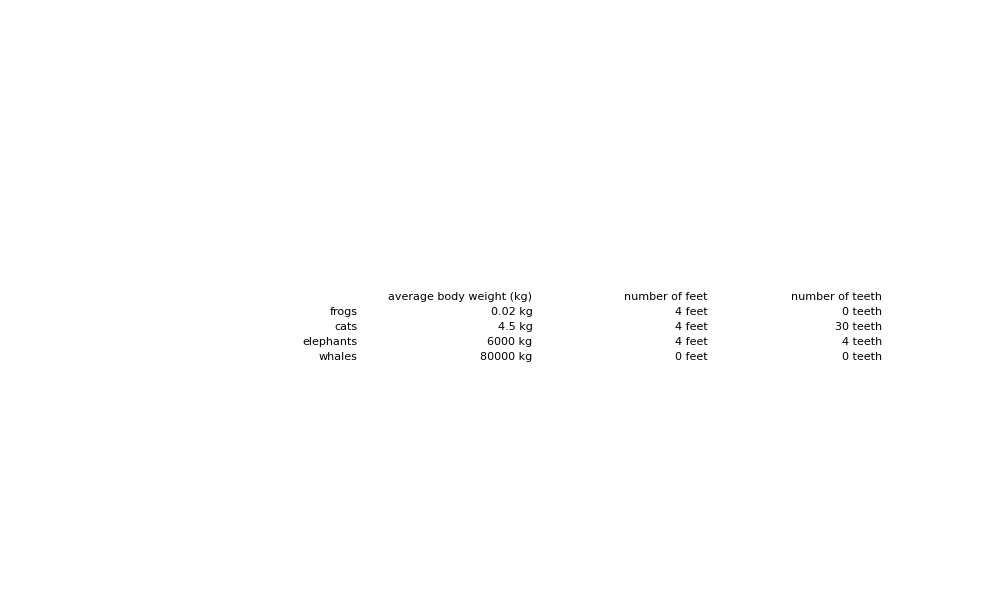
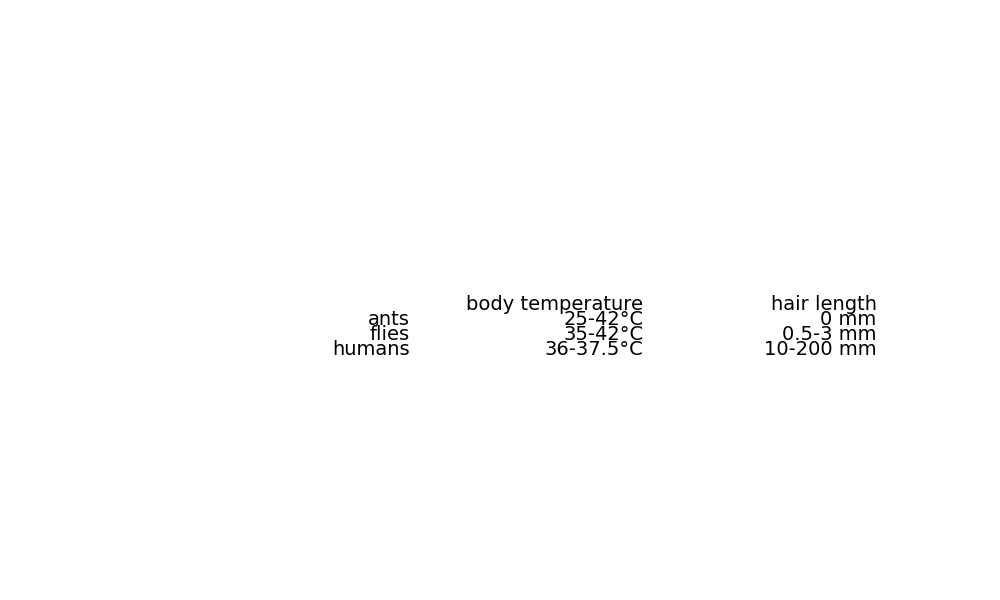
entry mapper added

Changed region(s): [[0.403, 0.48, 0.713, 0.6], [0.744, 0.48, 0.899, 0.6], [0.31, 0.51, 0.403, 0.6]]

diff --git a/chartgpt/src/main/java/com/gptool/chartgpt/service/serviceutil/JSONutil.java b/chartgpt/src/main/java/com/gptool/chartgpt/service/serviceutil/JSONutil.java
@@ -1,11 +1,16 @@
 package com.gptool.chartgpt.service.serviceutil;
 
+import java.util.ArrayList;
+import java.util.List;
+
 import org.springframework.stereotype.Component;
 
 import com.fasterxml.jackson.core.JsonProcessingException;
+import com.fasterxml.jackson.core.type.TypeReference;
 import com.fasterxml.jackson.databind.JsonMappingException;
 import com.fasterxml.jackson.databind.JsonNode;
 import com.fasterxml.jackson.databind.ObjectMapper;
+import com.gptool.chartgpt.pojo.Entry;
 import com.gptool.chartgpt.pojo.Table;
 
 @Component
@@ -45,5 +50,40 @@ public class JSONutil implements Formatter {
         return table;
     }
 
-    //  If i go for the less abstracted pojos route i can have specific parsers for table and entries
-}
+    //  For now, to access Entrys we need to create a Table first
+    public List<Entry> entryListMapper(Table table ) throws JsonProcessingException{
+        List<Entry> entryList = new ArrayList<>();
+        String tableString = objectMapper.writeValueAsString(table);
+        JsonNode tableJsonNode = (JsonNode)parse(tableString);
+        // Getting just the list of options
+        JsonNode optionListJsonNode = tableJsonNode.get("options");
+        String optionListString = (String) parseToString(optionListJsonNode);
+        List<String> optionList = objectMapper.readValue(optionListString,new TypeReference<List<String>>(){});
+
+        //  Getting just the list of topics
+        JsonNode topicListJsonNode = tableJsonNode.get("topics");
+        String topicListString = (String) parseToString(topicListJsonNode);
+        List<String> topicList = objectMapper.readValue(topicListString,new TypeReference<List<String>>(){});
+
+        //  Getting the list of information lists
+        JsonNode informationListJsonNode = tableJsonNode.get("topics");
+        String informationListString = (String) parseToString(informationListJsonNode);
+        List<List<String>> informationList = objectMapper.readValue(informationListString,new TypeReference<List<List<String>>>(){});
+
+        for (int index = 0; index < optionList.size(); index++) {
+            List<String> optionInfo = new ArrayList<>();
+            //  For indexed option get the indexed item in each list
+            for (List<String> information : informationList) {
+                optionInfo.add(information.get(index));
+            }
+            Entry entry = new Entry(optionList.get(index), topicList, optionInfo);
+            entryList.add(entry);
+        }
+        return entryList;
+    }
+
+
+    
+
+    }
+

diff --git a/completion_calls.py b/completion_calls.py
@@ -81,8 +81,42 @@ def get_table_info(option_list, characteristics_list):
         for each option on each topic. There should be quotation marks around each item in the information lists.
         Each list under the "information" key must have quotations around it.
         Keep the information to the point (brief). Include pure data as the information. Like this:
-        {
-        *topic*:[
+        {{
+            "topics": [
+                "average body weight in kilos",
+                "number of feet"
+            ],
+            "information": [
+                "[ "35-40 kg",
+                "350-450 kg",
+                "4000-6000 kg",
+                "80000-130000 kg"
+                ]",
+                "[ "2 feet",
+                "4 feet",
+                "4 feet",
+                "0 feet"
+                ]"
+            ],
+            "options": [
+                "penguins",
+                "zebras",
+                "elephants",
+                "whales"
+            ]
+        }
+
+
+        """},
+        {"role": "user", "content": " in terms of " + characteristics_list + " compare " + option_list},
+        ],
+        max_tokens = 200,
+        temperature = 0.3)
+    print("\n\n\n"+response.choices[0].message.content+"\n\n\n")
+    return response.choices[0].message.content
+
+
+'''        *topic*:[
             *topic 1*,
             *topic 2*,
             *topic 3*
@@ -104,11 +138,4 @@ def get_table_info(option_list, characteristics_list):
             *option 3*
         ]
         }
-    }
-        """},
-        {"role": "user", "content": " in terms of " + characteristics_list + " compare " + option_list},
-        ],
-        max_tokens = 200,
-        temperature = 0.5)
-    print("\n\n\n"+response.choices[0].message.content+"\n\n\n")
-    return response.choices[0].message.content
+    }'''

diff --git a/chartgpt/src/main/java/com/gptool/chartgpt/web/webutil/BasicUtility.java b/chartgpt/src/main/java/com/gptool/chartgpt/web/webutil/BasicUtility.java
@@ -37,6 +37,7 @@ public class BasicUtility implements ControllerUtility{
                 JsonNode response = restTemplate.postForObject(url, null,JsonNode.class, characteristics, options);
                 String responseString = tableService.parse(response);
                 Table table = tableService.jsonToTable(responseString);
+                tableService.saveTable(table);
                 return new ResponseEntity<>(response,HttpStatus.OK);
             }
             catch (HttpServerErrorException e){

diff --git a/chartgpt/src/main/java/com/gptool/chartgpt/pojo/Entry.java b/chartgpt/src/main/java/com/gptool/chartgpt/pojo/Entry.java
@@ -16,6 +16,14 @@ public class Entry {
     @JsonProperty("options")
     private String option;
 
+    public Entry(){};
+
+    public Entry(String option, List<String> topics, List<String> information) {
+        this.option = option;
+        this.topics = topics;
+        this.information = information;
+    };
+
     public List<String> getTopics() {
         return this.topics;
     }

diff --git a/chartgpt/src/main/java/com/gptool/chartgpt/pojo/Table.java b/chartgpt/src/main/java/com/gptool/chartgpt/pojo/Table.java
@@ -8,7 +8,6 @@ public class Table {
 
     //private String name;
 
-
     //private List<Entry> entryList;
 
     @JsonProperty("topics")
@@ -45,6 +44,7 @@ public class Table {
     public void setOption(List<String> option) {
         this.option = option;
     }
+
 
 
 }

diff --git a/chartgpt/src/main/java/com/gptool/chartgpt/repository/TableRepoImpl.java b/chartgpt/src/main/java/com/gptool/chartgpt/repository/TableRepoImpl.java
@@ -16,7 +16,7 @@ public class TableRepoImpl implements TableRepository {
     
     @Override
     public void saveTable(Table table) {
-
+        System.out.println("TABLE SAVED");
     }
 }
 

diff --git a/render_charts.py b/render_charts.py
@@ -135,6 +135,7 @@ def create_table(table_JSON):
     
     table.set_fontsize(14)
 
+
     # Hide axes
     ax.axis('off')
 
